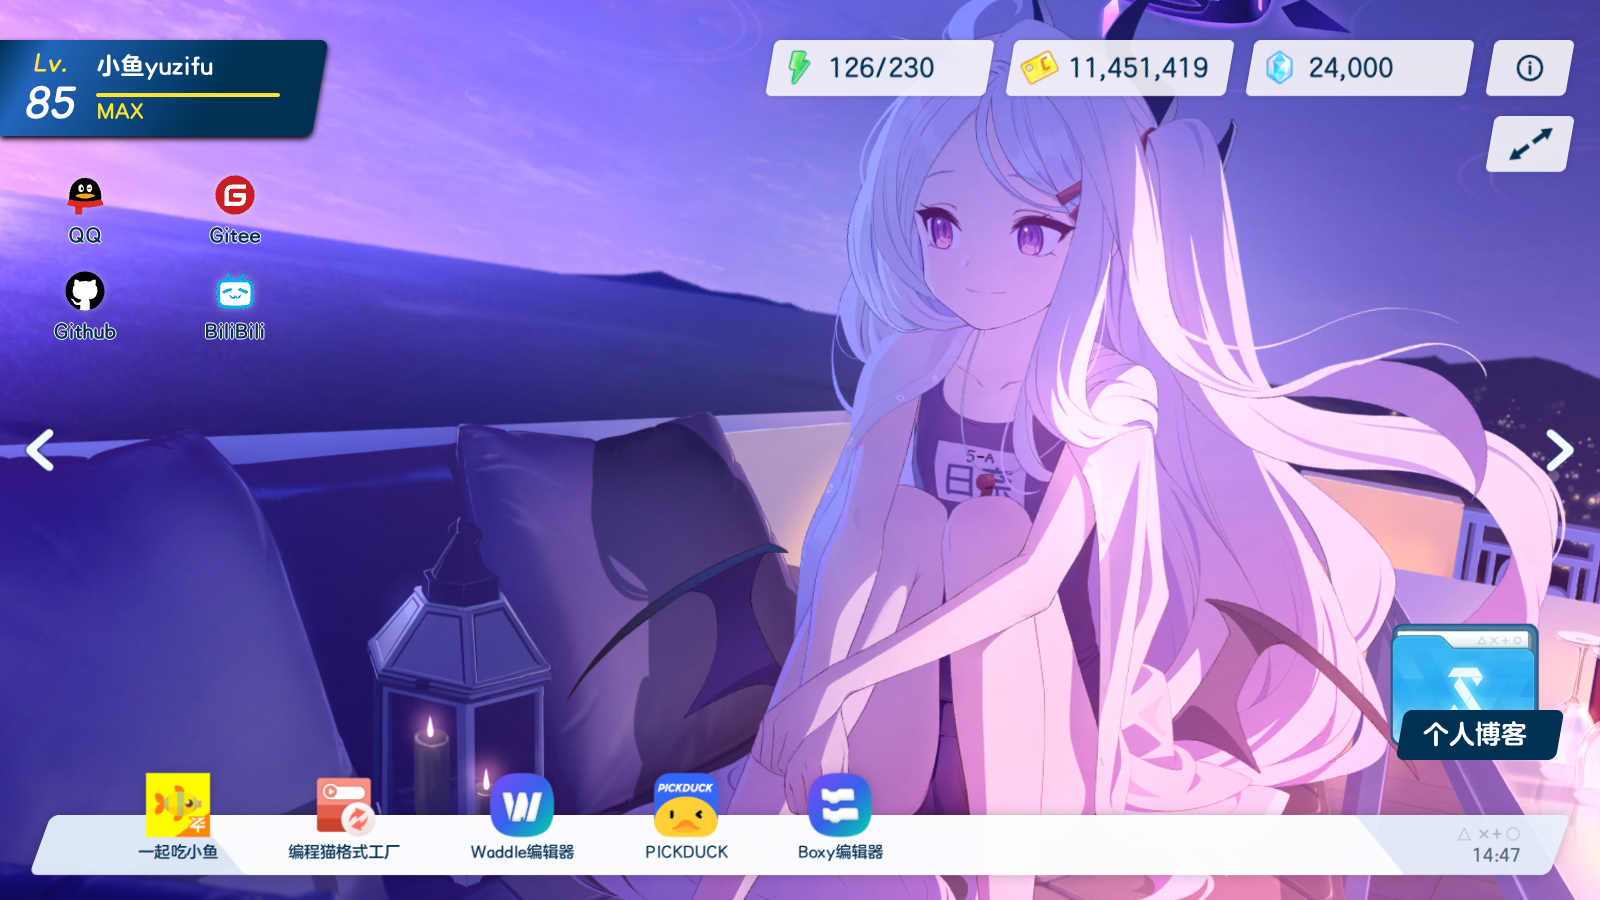
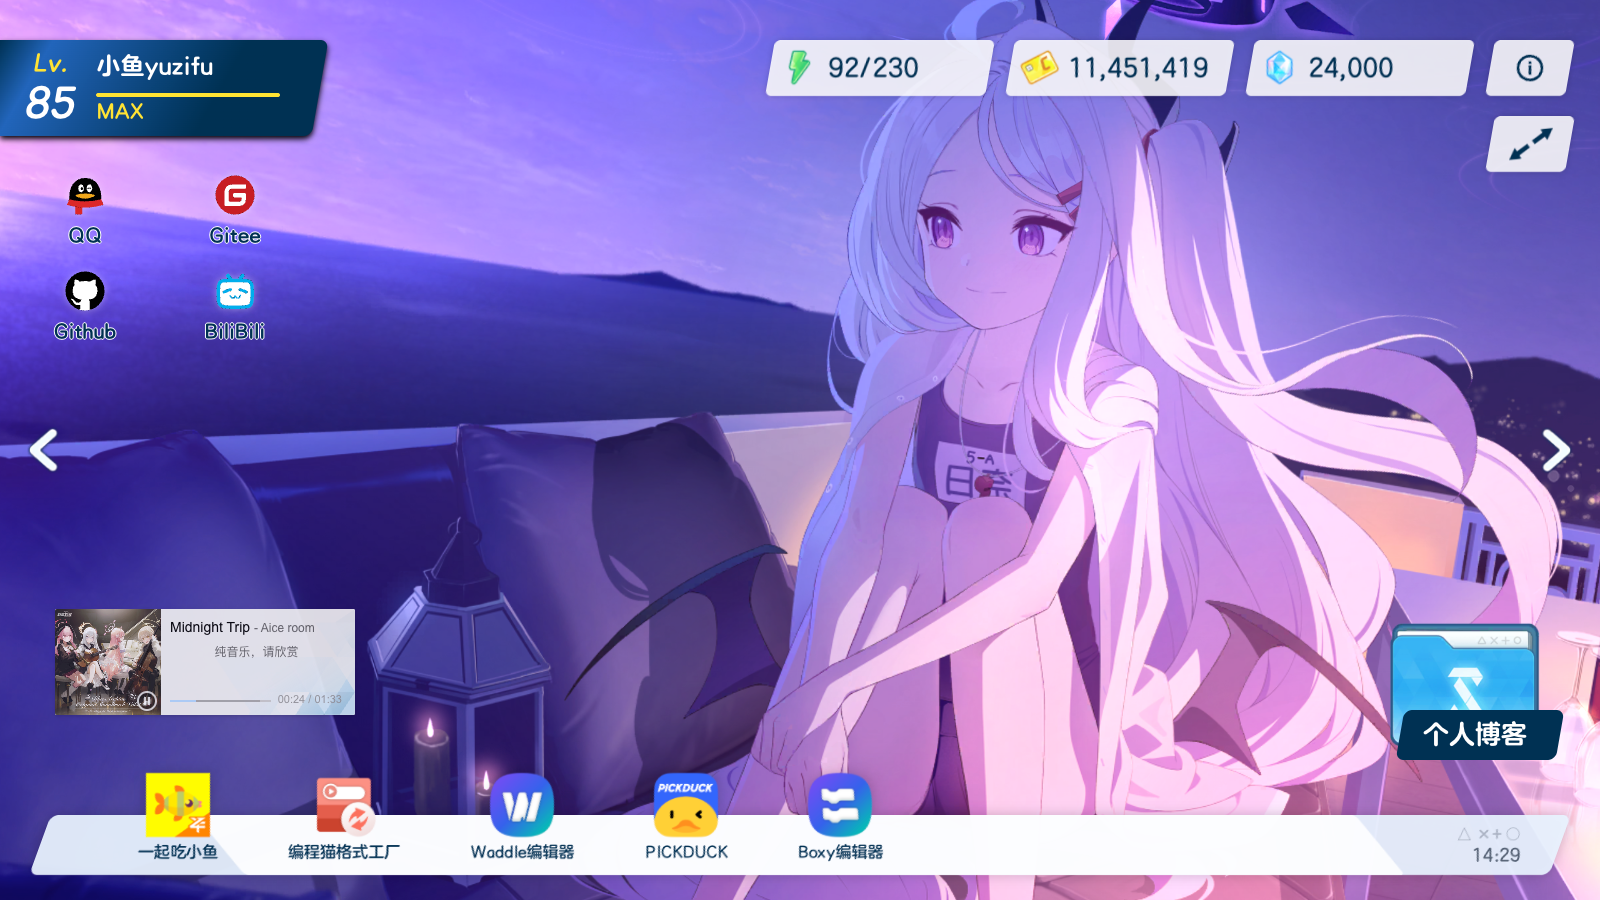
[readme]添加使用到的项目、修改部署内容

diff --git a/README.md b/README.md
@@ -35,6 +35,7 @@
 - [spine-pixi-v7](https://www.npmjs.com/package/@esotericsoftware/spine-pixi-v7)
 - [Iconfont](https://www.iconfont.cn/)
 - [cn-font-split](https://github.com/KonghaYao/cn-font-split)
+- [APlayer](https://aplayer.js.org/#/)
 
 ## 部署方式
 
@@ -130,6 +131,9 @@ contact:
 task:
   name: 个人博客 # 任务名称
   href: 'https://blog.yzf.moe/' # 跳转地址
+banner:
+  musicID: # 音乐ID（暂时只支持网易云音乐）
+    - 2059151619
 ```
 > 修改其中相关内容，之后重新按上述方式部署即可完成修改
 
